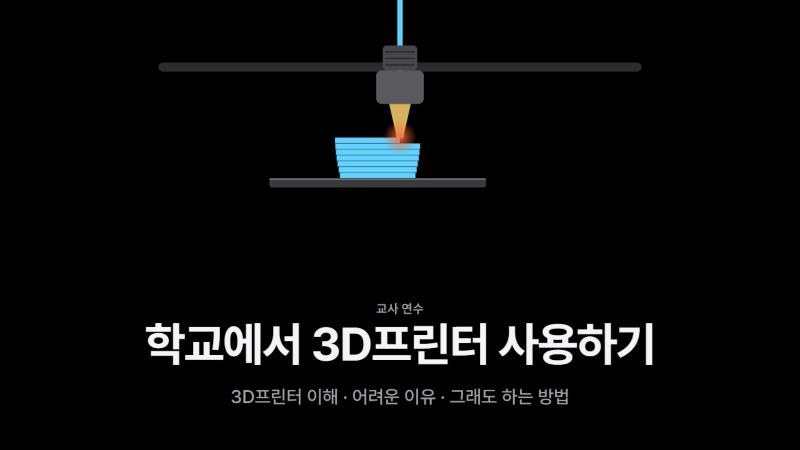
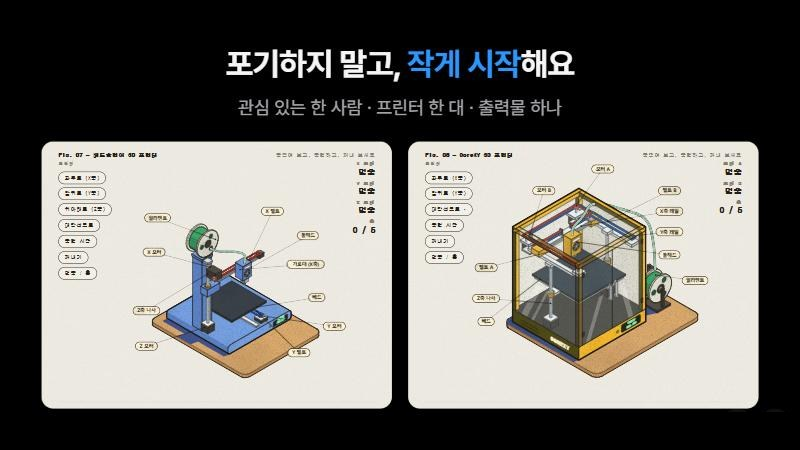
소개 문구 바꾸고 강의 덱 썸네일 2개 교체(3d-school 24장, juggling4 6장)

diff --git a/style.css b/style.css
@@ -46,7 +46,7 @@ a { color: inherit; }
 .profile { padding: 72px 0 48px; }
 .profile h1 { margin: 0; font-size: clamp(32px, 6vw, 48px); font-weight: 800; letter-spacing: -0.02em; }
 .profile .role { margin: 6px 0 0; color: var(--muted); font-size: 17px; }
-.profile .intro { margin: 20px 0 0; max-width: 36em; font-size: 18px; }
+.profile .intro { margin: 20px 0 0; max-width: 36em; font-size: 18px; white-space: pre-line; }
 .profile .links { display: flex; gap: 12px; margin: 20px 0 0; padding: 0; list-style: none; }
 .profile .links a {
   display: inline-block; padding: 6px 14px;
